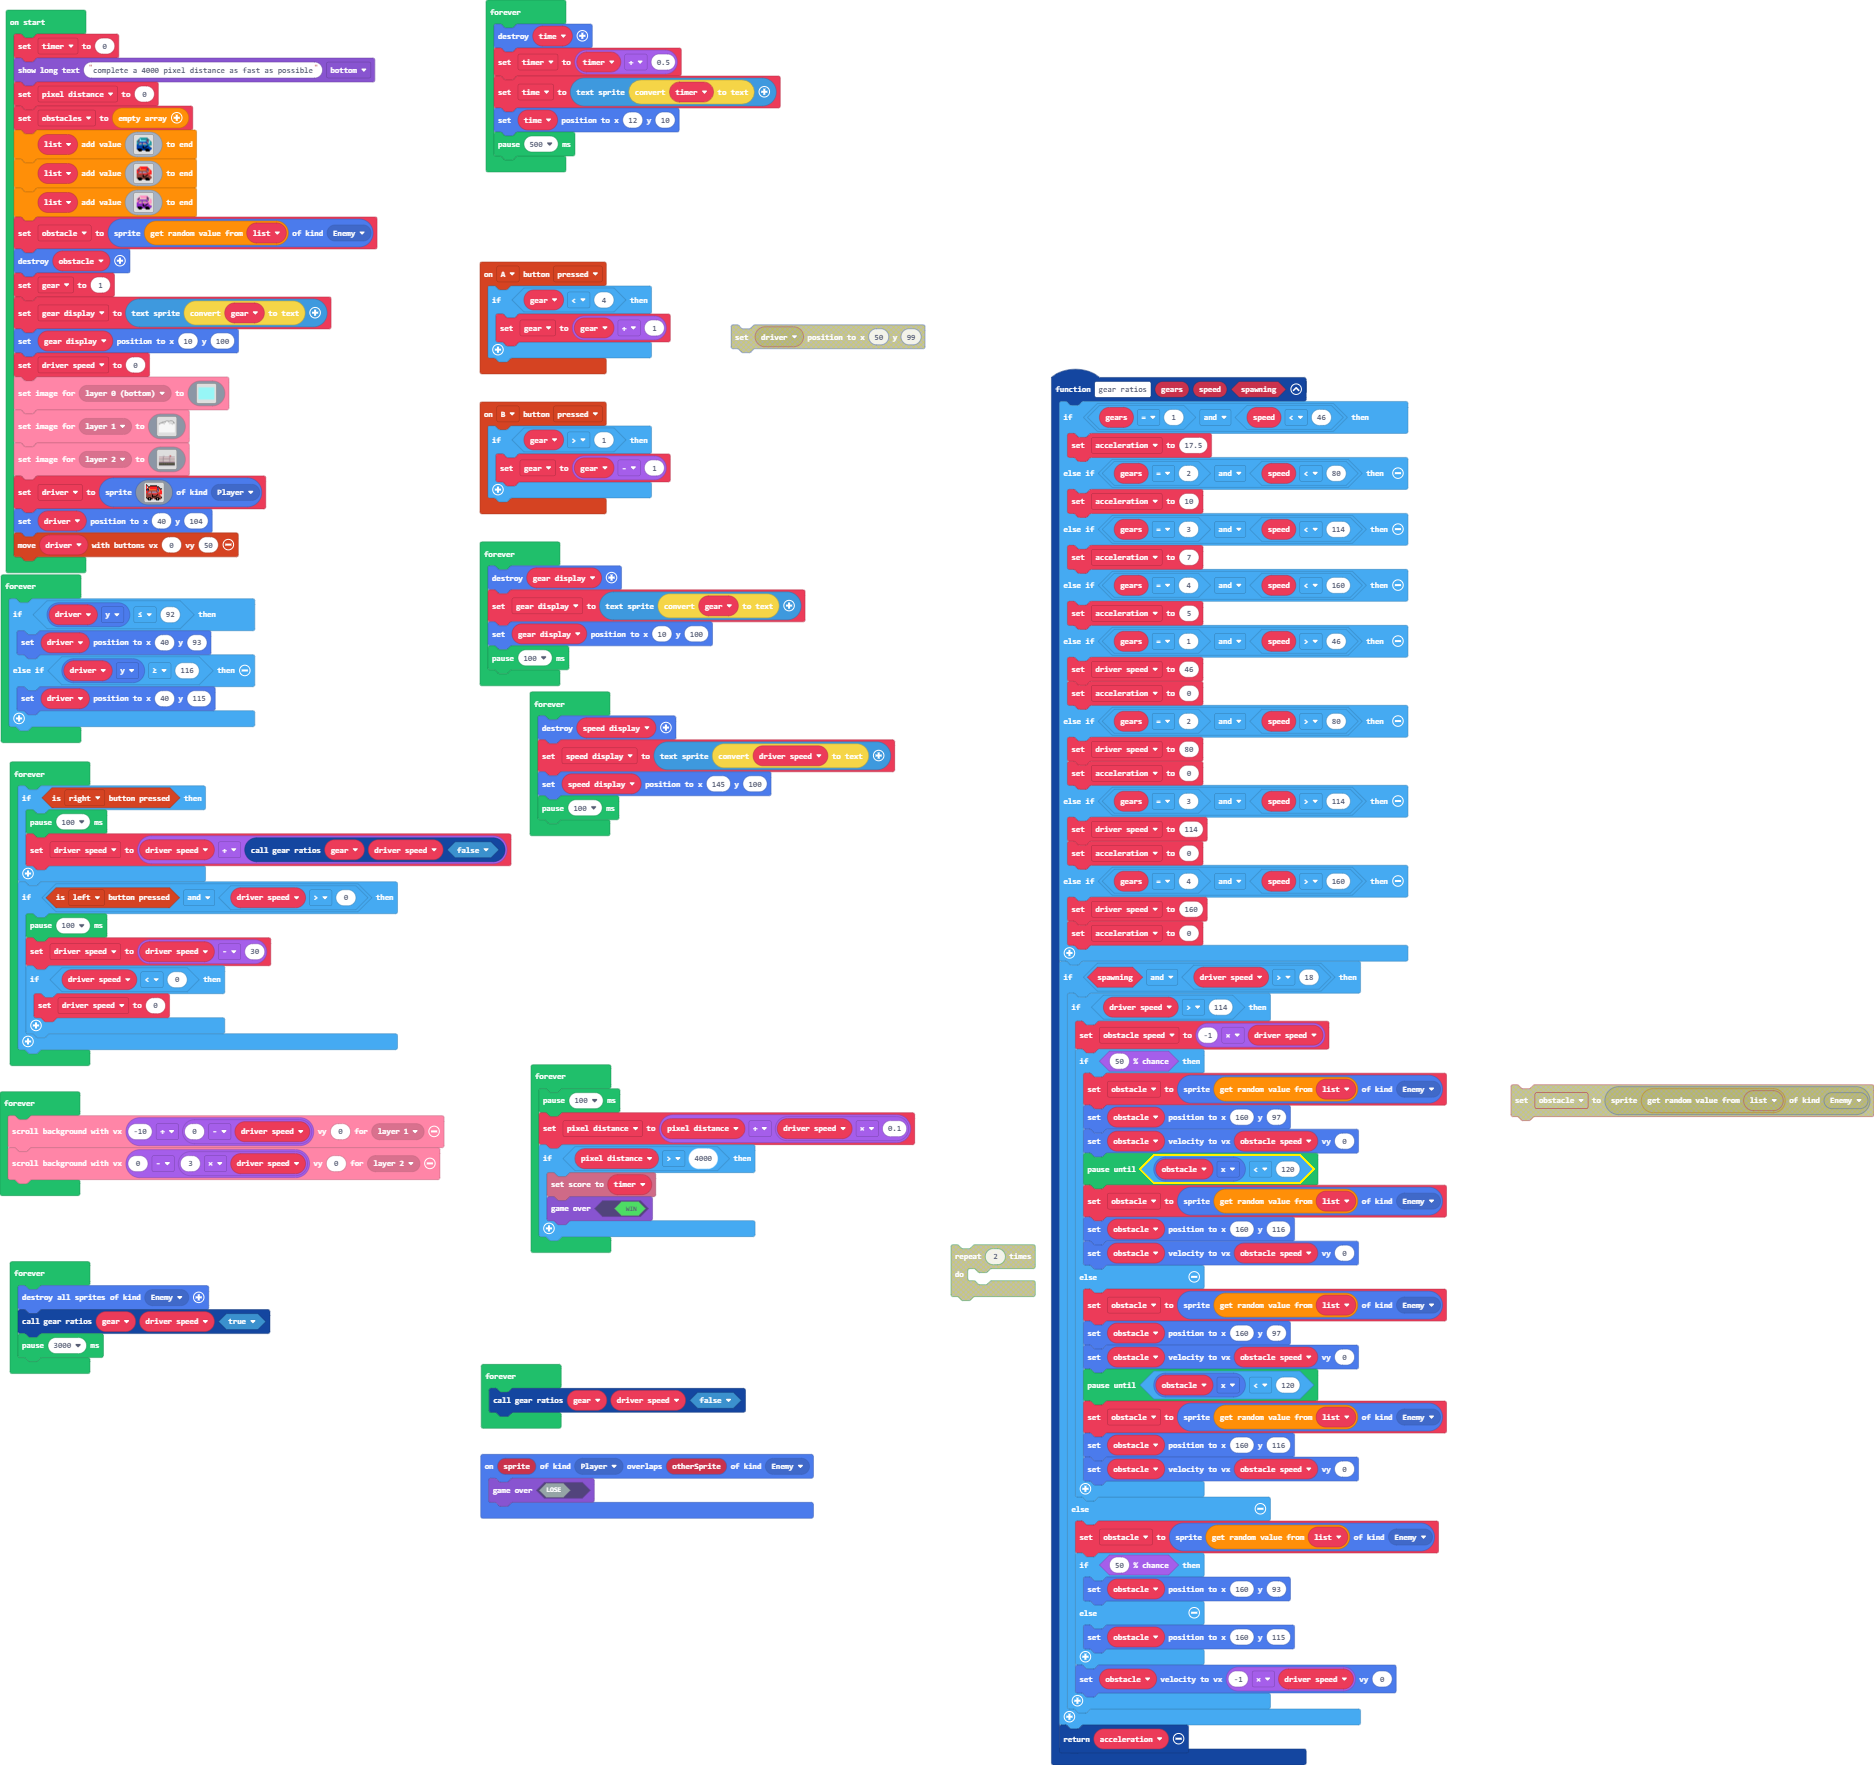
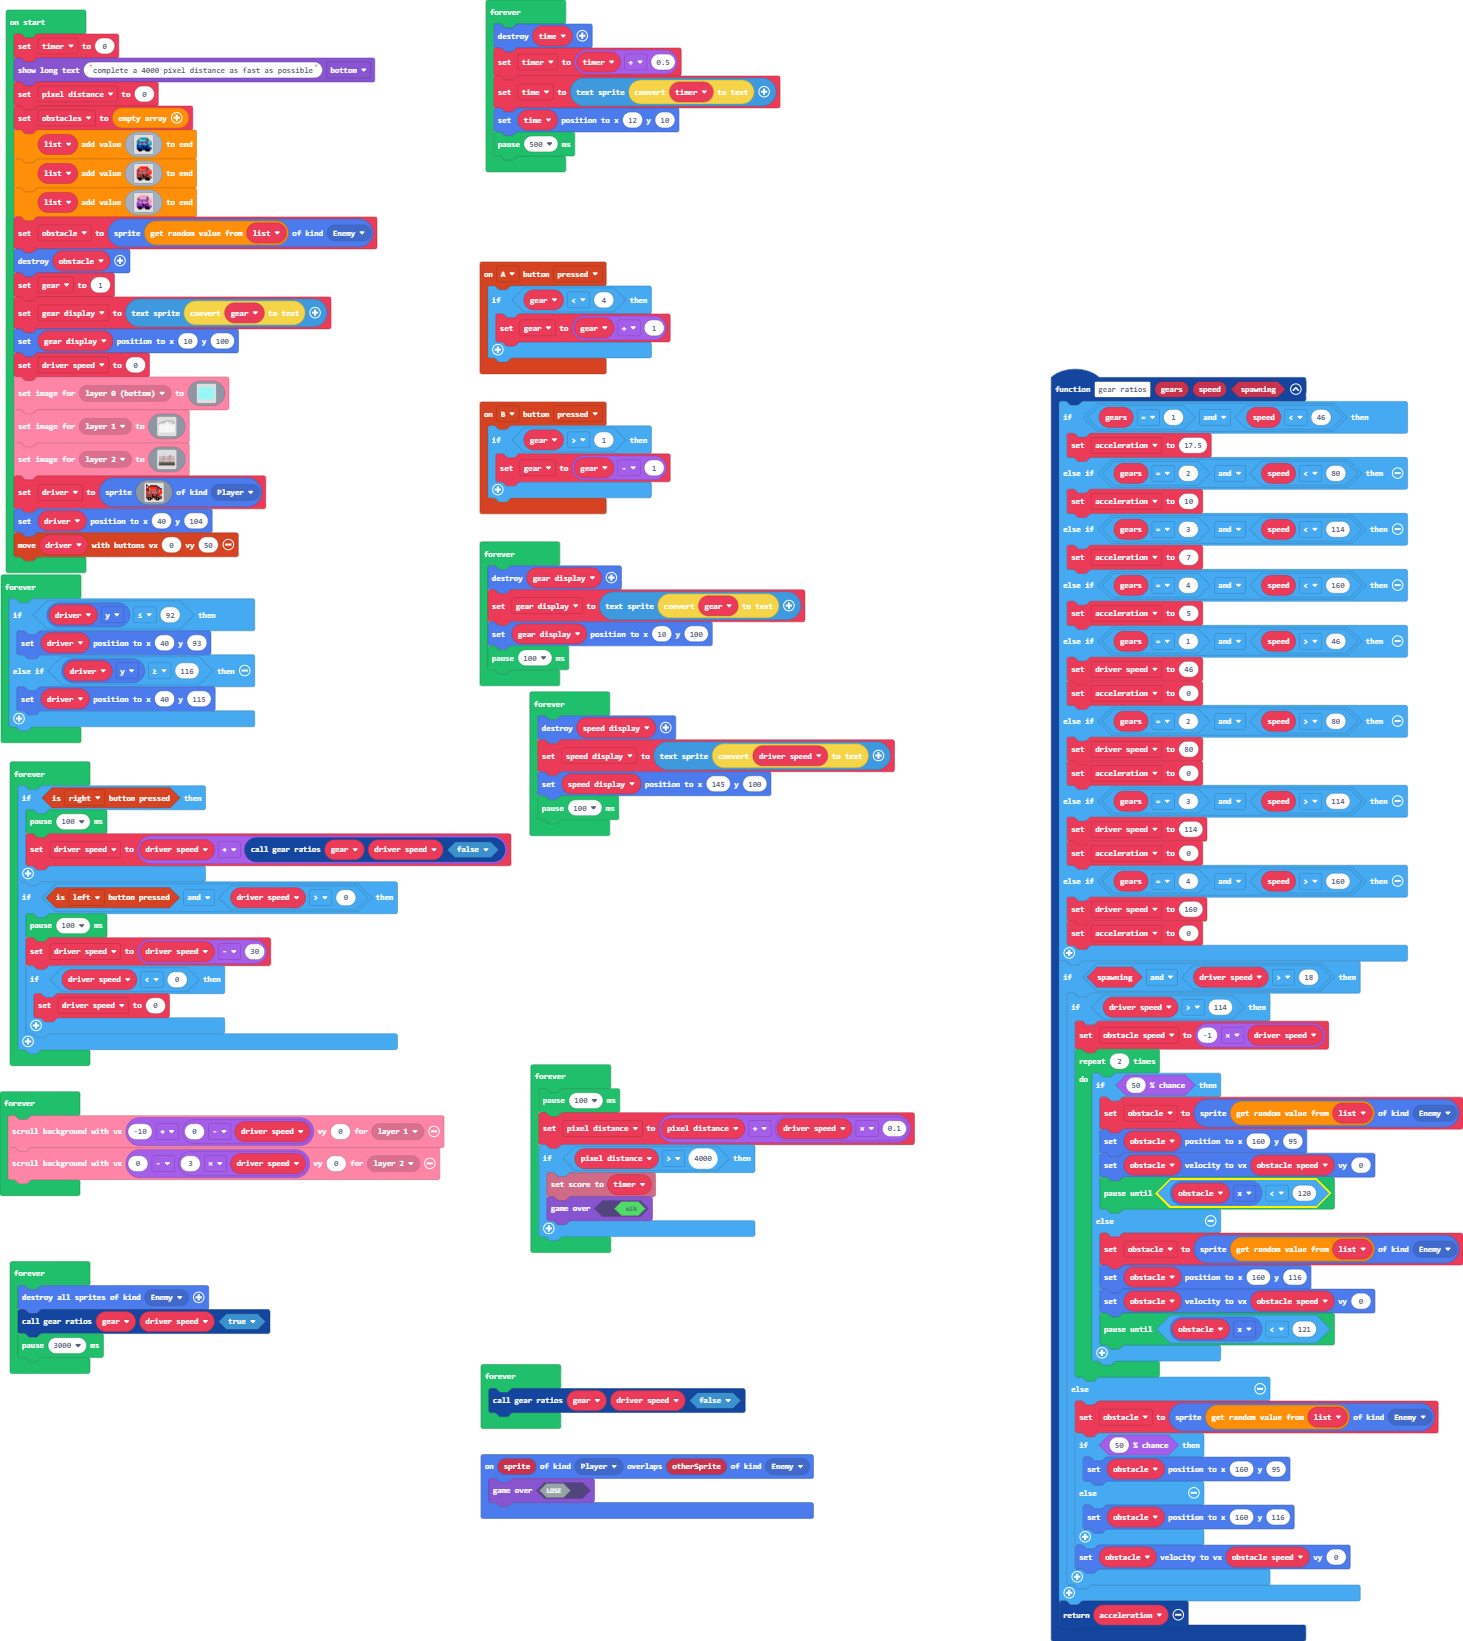
Update main.blocks, main.ts

diff --git a/main.ts b/main.ts
@@ -26,31 +26,27 @@ function gear_ratios (gears: number, speed: number, spawning: boolean) {
     if (spawning && driver_speed > 18) {
         if (driver_speed > 114) {
             obstacle_speed = -1 * driver_speed
-            if (Math.percentChance(50)) {
-                obstacle = sprites.create(list._pickRandom(), SpriteKind.Enemy)
-                obstacle.setPosition(160, 97)
-                obstacle.setVelocity(obstacle_speed, 0)
-                pauseUntil(() => obstacle.x < 120)
-                obstacle = sprites.create(list._pickRandom(), SpriteKind.Enemy)
-                obstacle.setPosition(160, 116)
-                obstacle.setVelocity(obstacle_speed, 0)
-            } else {
-                obstacle = sprites.create(list._pickRandom(), SpriteKind.Enemy)
-                obstacle.setPosition(160, 97)
-                obstacle.setVelocity(obstacle_speed, 0)
-                pauseUntil(() => obstacle.x < 120)
-                obstacle = sprites.create(list._pickRandom(), SpriteKind.Enemy)
-                obstacle.setPosition(160, 116)
-                obstacle.setVelocity(obstacle_speed, 0)
+            for (let index = 0; index < 2; index++) {
+                if (Math.percentChance(50)) {
+                    obstacle = sprites.create(list._pickRandom(), SpriteKind.Enemy)
+                    obstacle.setPosition(160, 95)
+                    obstacle.setVelocity(obstacle_speed, 0)
+                    pauseUntil(() => obstacle.x < 120)
+                } else {
+                    obstacle = sprites.create(list._pickRandom(), SpriteKind.Enemy)
+                    obstacle.setPosition(160, 116)
+                    obstacle.setVelocity(obstacle_speed, 0)
+                    pauseUntil(() => obstacle.x < 121)
+                }
             }
         } else {
             obstacle = sprites.create(list._pickRandom(), SpriteKind.Enemy)
             if (Math.percentChance(50)) {
-                obstacle.setPosition(160, 93)
+                obstacle.setPosition(160, 95)
             } else {
-                obstacle.setPosition(160, 115)
+                obstacle.setPosition(160, 116)
             }
-            obstacle.setVelocity(-1 * driver_speed, 0)
+            obstacle.setVelocity(obstacle_speed, 0)
         }
     }
     return acceleration
